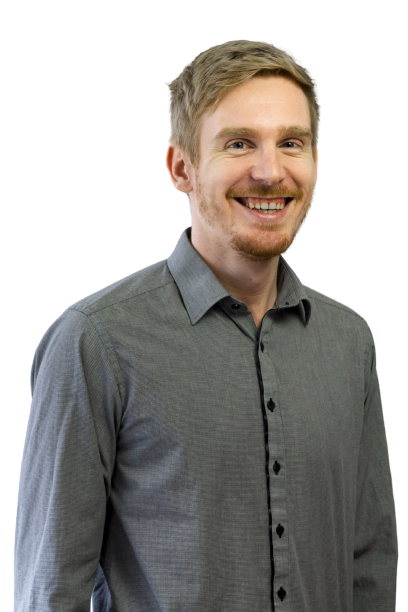
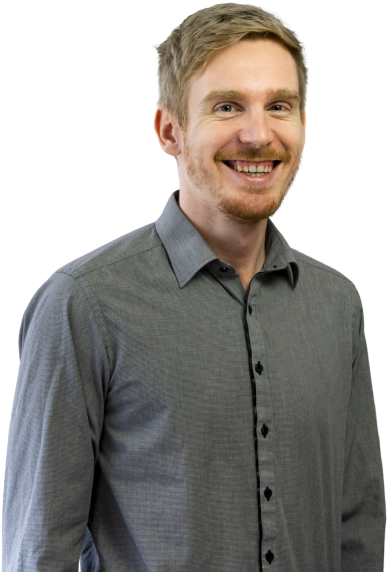
updated about me section

diff --git a/src/components/about/AboutMe.vue b/src/components/about/AboutMe.vue
@@ -28,11 +28,11 @@ export default {
   <div class="block sm:flex sm:gap-10 mt-10 sm:mt-20">
     <!-- About profile image -->
     <div class="w-full sm:w-1/4 mb-7 sm:mb-0">
-      <img src="@/assets/images/profile.jpeg" class="rounded-xl w-96" alt=""/>
+      <img src="@/assets/images/me.png" class="rounded-xl w-96" alt=""/>
     </div>
 
     <!-- About details -->
-    <div class="w-full sm:w-3/4 text-left">
+    <div class="w-full sm:w-3/4 text-left align-text-bottom">
       <p v-for="bio in bios" :key="bio.id"
          class="font-general-regular mb-4 text-ternary-dark dark:text-ternary-light text-lg">
         {{ bio.bio }}
